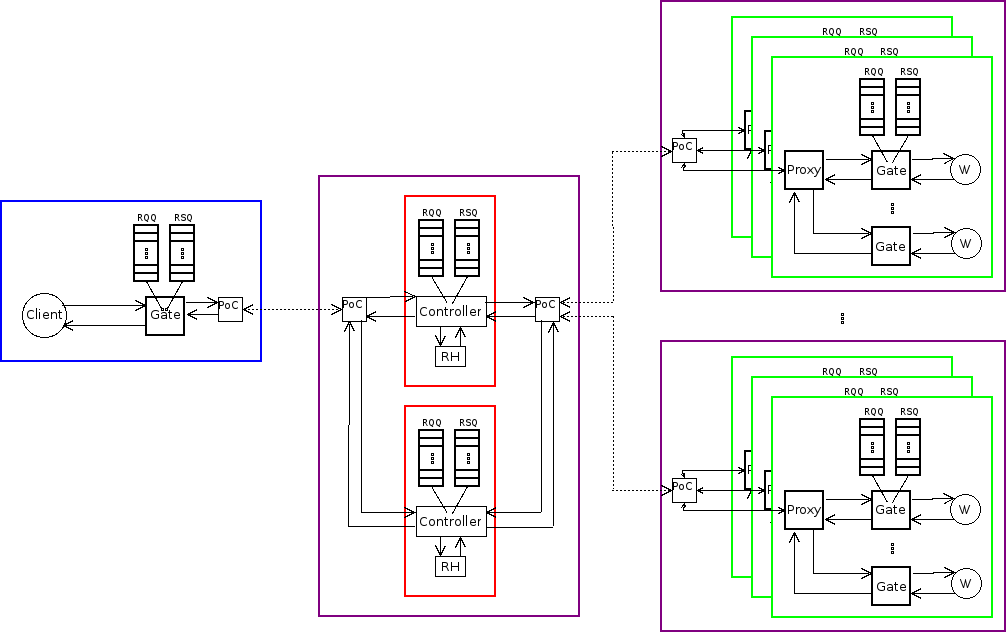
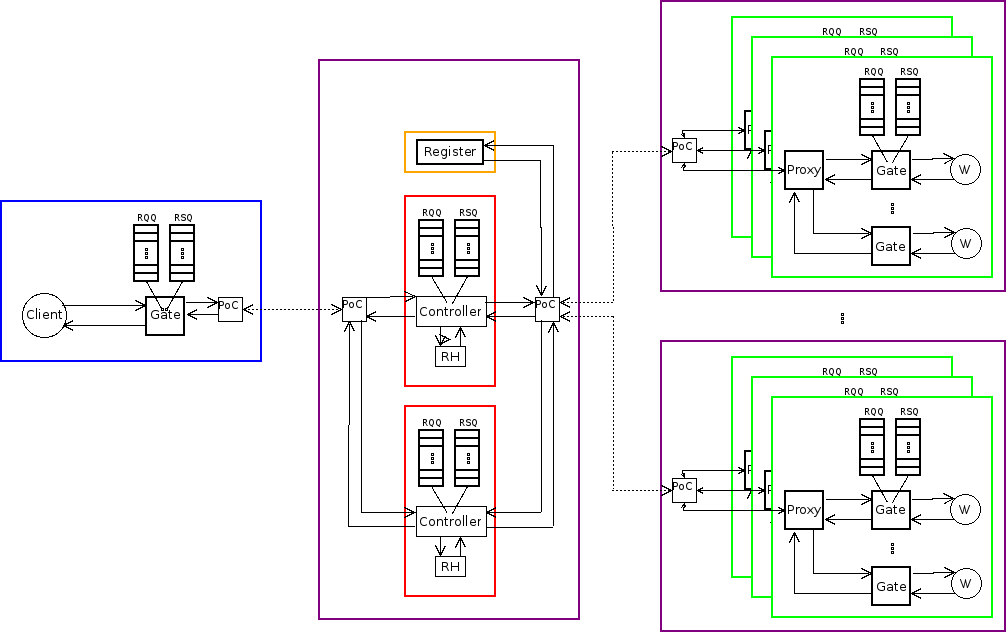
Add registry for worker kinds

Changed region(s): [[0.3383, 0.1798, 0.5536, 0.2997], [0.3075, 0.959, 0.5843, 0.989], [0.3075, 0.0899, 0.5843, 0.1199]]

diff --git a/communication_model.md b/communication_model.md
@@ -56,7 +56,7 @@ In others, each proxy, client and controller can have its own node.
 To abstract all components from their location, Point of Contact (Poc) is introduced.
 It forwards all requests/responses to other PoCs which can be on the same or remote node.
 
-#### Request handlerer
+#### Request handler
 
 Each client request correspond to one semantic operation.
 E.g. extract data from a tarball, analyse dependencies, etc.
@@ -75,6 +75,13 @@ each in a given order representing a state of processing of the client request.
 Request handler (RH) is responsible for processing each response and generating
 the correct request based on the previous request the response belonged to.
 Thus, each request and reponse carries (among other data) its client request state.
+
+#### Register
+
+To store location (local or remote) of each worker kind,
+register component is introduced.
+List of kinds can be read from a configuration file or picked up from a network.
+It is used by controller to send requests to the correct consumer.
 
 #### Controller
 
@@ -102,8 +109,22 @@ All gates just invoke methods of the controller and wait for return.
 All operations are synchronious. There is no paralelism, no queue.
 All gates implement the same interface (IF).
 Request handler (HR) is common for all various controller implementations.
+Register provides a list of object instances, one for each worker kind.
 
 ![Simple Synchronious Controller](/fig/simple_sync_controller.png)
+
+Gate implements:
+```vim
+send()
+recieve()
+```
+
+Register implements:
+```vim
+register()
+unregister()
+lookup()
+```
 
 ### TODO
 
